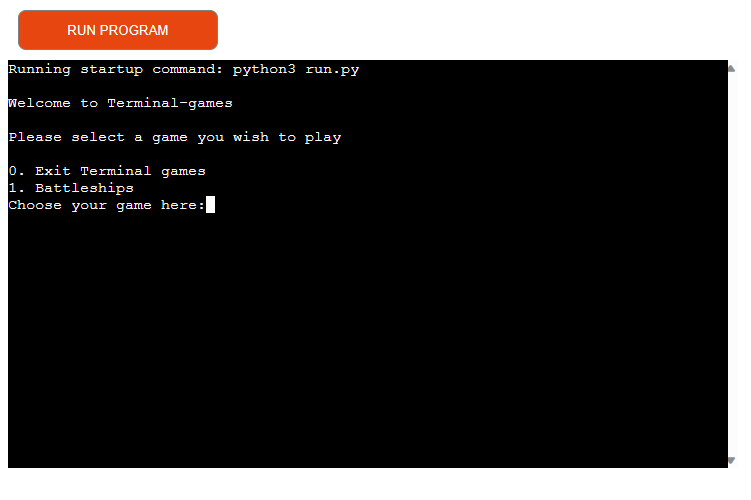
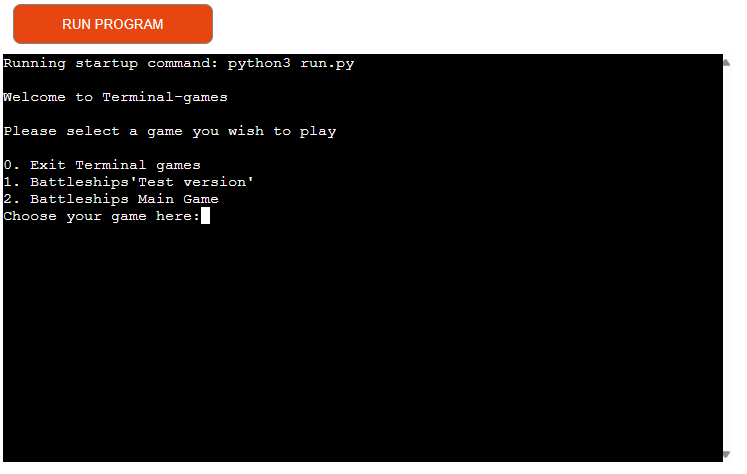
updated features section in README

Changed region(s): [[0.0, 0.0, 0.9853, 0.9747], [0.9545, 0.1181, 0.9853, 0.1477]]

diff --git a/README.md b/README.md
@@ -78,7 +78,7 @@ If the user selects option 1. Battleships they come to this screen:
 
 ### Option 2 
 
-If the user selections option 2. Battleships Main Game they come to the main battleships game where the ships are hidden
+If the user selections option 2. Battleships Main Game they come to the exact same battleships game as option 1 except the ships are hidden as intented to play
 
 ### Guess input
 
